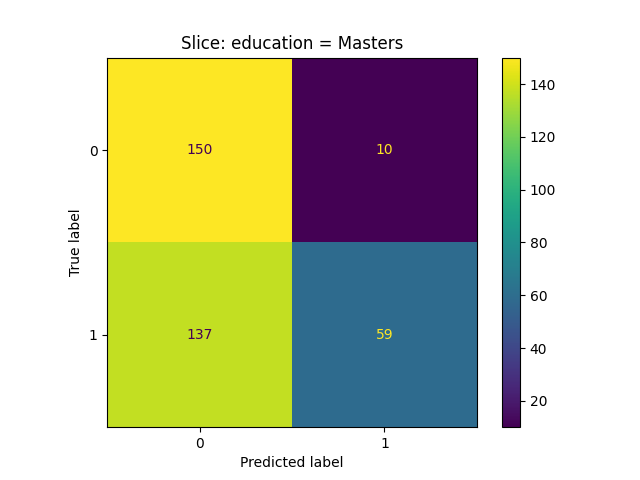
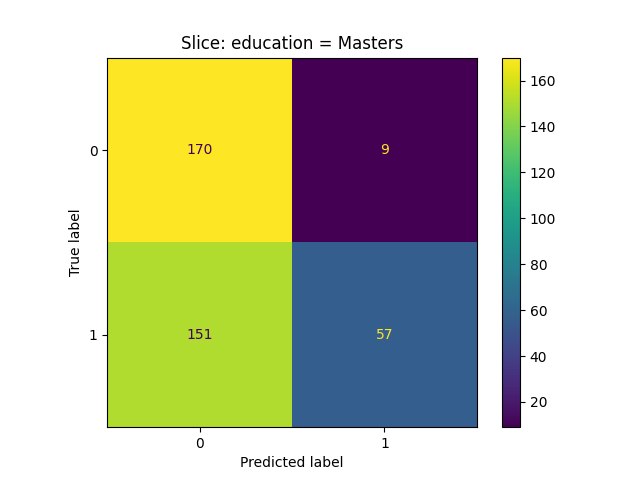
cleaned up

diff --git a/starter/model_card.md b/starter/model_card.md
@@ -11,77 +11,37 @@
 - Feedback: bkozdemba@gmail.com
 
 ## Intended Use
-- Predict whether salary exceeds $50K/yr.
+- Predict whether salary exceeds $50K/yr given a set of numeric and categorical features.
 
 ## Data
 - 15 features (numeric and categorical)
 - 32561 rows
 - Data is one-hot encoded into 108 features.
-
-## Training Data
-- 80 % of split
-
-## Evaluation Data
-- 20% of split
+- Training/Test split was 80/20 respectively
 
 ## Metrics
 
 ### Model Performance
 
+Confusion Matrix (see `starter/screenshots/c_matrix.png`)
+
+Performance of *test* split.
+
 |Slice |Precision  |Recall |FBeta
 |--- | --- | ---| ---|
-|All|1.0|0.01|0.02
-
-Confusion Matrix
-```
-[
-    [4925    0]
-    [1567   16]
-]
- ```
+|test split|0.696|0.256|0.375|
 
  #### Model performance of categorical slices.
 
-|Slice |Precision  |Recall |FBeta
+Slices of the education category were performed for various values.
+Example *confusion matricies* can be found in the `starter/screenshots`
+directory.
+
+#### Performance of education slices:
+
+|Slice|Precision  |Recall |FBeta
 |--- | --- | ---| ---|
-|sex = Male|1.0|0.012|0.023
-|race = White|1.0|0.004|0.007
-|workclass = Private|1.0|0.007|0.014
-|education = Bachelors|1.0|0.010|0.020
-
-```
-
-Confusion Matricies
-
-Slice ('sex', 'Male')
-
-[
-    [2946    0]
-    [1331    0]
- ]
-
-Slice ('race', 'White')
-
-[
-    [4177    0]
-    [1458    0]
-]
-
-Slice ('workclass', 'Private')
-
-[
-    [3527    0]
-    [1038    0]
-]
-
-Slice ('education', 'Bachelors')
-
-[
-    [607   0]
-    [467   0]
-]
- ```
-
-## Ethical Considerations
-
-## Caveats and Recommendations
+|HS-Grad|0.592|0.217|0.318|
+|Bachelors|0.810|0.295|0.433|
+|Masters|0.877|0.284|0.429|
+|Doctorate|0.944|0.254|0.400|
